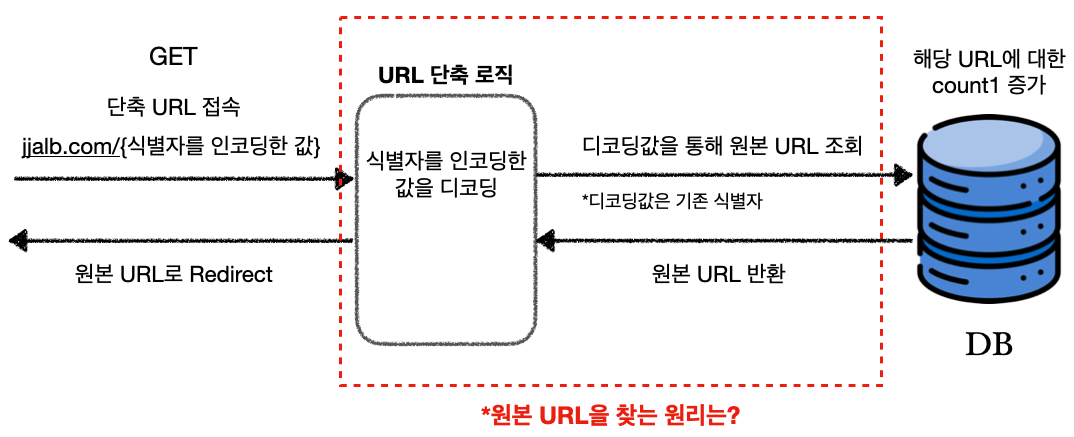
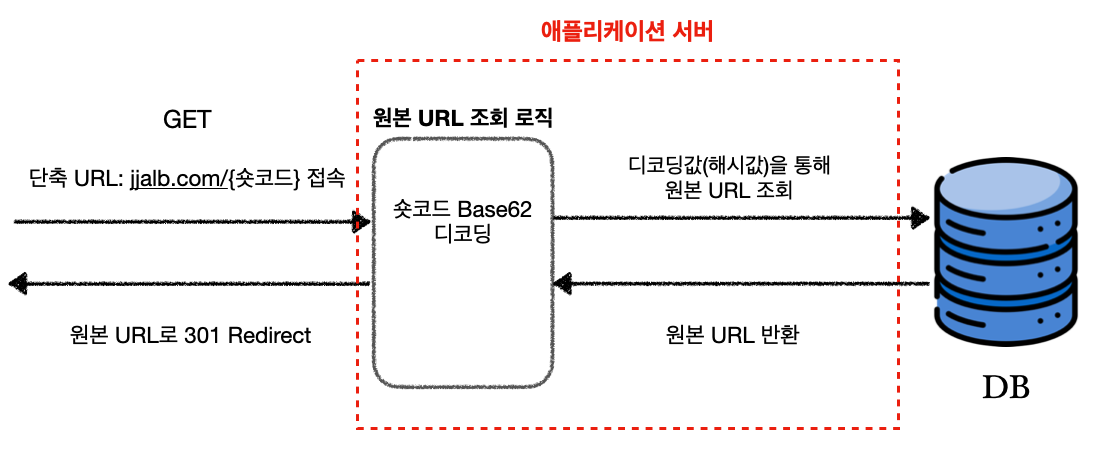
Update post

diff --git a/_posts/2024-06-19-url-shortener-project-1.md b/_posts/2024-06-19-url-shortener-project-1.md
@@ -1,6 +1,6 @@
 ---
 title: URL 단축 서비스 구상 (Url Shortener - 1)
-description: Bitly와 같은 URL 단축 서비스의 원리 파악 및 구상하기.
+description: Bitly와 같은 URL 단축 서비스의 원리 파악 및 구현하기.
 author: seungki1011
 date: 2024-06-19 10:30:00 +0900
 categories: [Project, Url-Shortener]
@@ -10,11 +10,15 @@ math: true
 mermaid: true
 ---
 
-# URL 단축 소개
+---
+
+## URL 단축 소개
 
 간단한 URL 단축 서비스를 구현해보고자 한다. 먼저 URL 단축이 무엇인지에 대해 알아보자.
 
 URL 단축이라는 것은 말 그대로 기존 URL을 단축해서 더 짧은 URL로 만드는 것을 말한다. 이런 URL 단축을 제공하는 가장 대표적인 서비스는 [**Bitly**](https://bitly.com/pages/products/url-shortener)이다. Bitly를 사용해서 단축 URL을 얻어보자.
+
+<br>
 
 ![bitly](../post_images/2024-06-19-url-shortener-project-1/bitly.png){: width="972" height="589" }
 _Bitly를 사용해서 URL 단축_
@@ -23,101 +27,144 @@ _Bitly를 사용해서 URL 단축_
 
 * 단축된 URL : [https://bit.ly/3VzBS9q](https://bit.ly/3VzBS9q)
 
-위에서 볼 수 있듯이 아주 긴 URL을 아주 짧은 링크를 통해서 접근할 수 있다. Bitly는 회원 가입해서 사용하는 경우, URL 단축 기능 외에도 해당 링크를 몇 명이 눌렀는지에 대한 통계 데이터를 확인할 수 있는 기능도 제공한다. 추후 프로젝트를 구현할 때 기본적으로 이 2 가지 기능을 구현할 예정이다.
+<br>
+
+위에서 볼 수 있듯이 아주 긴 URL을 아주 짧은 링크를 통해서 접근할 수 있다. 
+
+Bitly는 회원 가입해서 사용하는 경우, URL 단축 기능 외에도 해당 링크를 몇 명이 눌렀는지에 대한 통계 데이터를 확인할 수 있는 기능도 제공한다. 일단은 회원 가입 기능을 배제하고, 비회원이 사용하는 경우 원본 URL의 중복을 허용하지 않는 방식의 서비스를 고려하자.
 
 ---
 
-# URL 단축의 실행 로직
+## URL 단축 방법 1 (Hashing - Base62 Encoding)
 
-위에서 살펴본 URL 단축 서비스의 실행 로직의 흐름을 다음 2 가지 경우에 대해 살펴보자.
+### URL 단축, 조회 로직의 흐름
+
+URL 단축은 여러가지 방법으로 구현할 수 있다. 가장 먼저 해싱과 Base62 인코딩을 사용하는 방법에 대해 알아보자.
+
+URL 단축 실행 로직의 흐름을 다음 2 가지 경우에 대해 살펴보자.
 
 * 사용자가 원본 URL을 입력해서 단축 URL을 얻는 경우
 * 사용자가 단축 URL을 클릭해서 접속하는 경우
 
 <br>
 
-원본 URL을 입력해서 단축 URL을 얻는 경우를 살펴보자. 다음 그림에서 표현하는 흐름은 대략적인 과정만 표현한다.
+원본 URL을 입력해서 단축 URL을 얻는 경우를 살펴보자. 구현할 애플리케이션의 도메인명을 `jjalb.com`이라고 가정하자. (참고로 그림에서는 대략적인 과정만 표현한다.)
 
-구현할 애플리케이션의 도메인명을 `jjalb.com`이라고 가정하자.
-
-![firstreq](../post_images/2024-06-19-url-shortener-project-1/logic.png){: width="972" height="589" }_원본 URL 입력후 단축 URL을 얻는 과정_
+![firstreq](../post_images/2024-06-19-url-shortener-project-1/logic0.png){: width="972" height="589" }_원본 URL 입력후 단축 URL을 얻는 과정_
 
 - `shorturl`이라는 엔드포인트에서 원본 URL을 입력해서 `POST` 요청을 보낸다
-- 원본 URL에 특정 로직을 적용해서 유니크한 식별자로 만든다
-- 해당 원본 URL과 식별자를 데이터베이스에 저장한다
-- 해당 식별자에 인코딩 로직을 적용해서 나온 값을 단축 URL 뒤의 [슬러그(slug)](https://developer.mozilla.org/ko/docs/Glossary/Slug)로 활용한다
+- 원본 URL에 해시 함수를 사용해서 해시값을 얻는다
+- 해시값에 Base62 인코딩을 적용했을 때 7자리가 나오도록 해시값 앞 10자리를 잘라서 사용한다
+- 해당 원본 URL과 해시값(앞10자리)을 데이터베이스에 저장한다
+- 해시값을 Base62 인코딩한 결과를 단축 URL 뒤의 [숏코드(short code, slug)](https://developer.mozilla.org/ko/docs/Glossary/Slug)로 활용한다
 
 <br>
 
 <!-- markdownlint-capture -->
 <!-- markdownlint-disable -->
-> 위의 경우에서 이미 데이터베이스에 존재하는 원본 URL을 입력하는 경우에 대한 로직은 나타내지 않았다.
+
+> 위의 경우, 데이터베이스에 이미 존재하는 원본 URL을 입력하는 경우에 대한 로직은 다루지 않았다.(중복 체크)
 {: .prompt-tip }
 <!-- markdownlint-restore -->
 
 <br>
 
-이번에는 사용자 단축 URL을 클릭하거나 브라우저에 입력하여 접속하는 경우를 살펴보자.
+이번에는 사용자 단축 URL에 접속하는 경우를 살펴보자.
 
 ![clickreq](../post_images/2024-06-19-url-shortener-project-1/logic2.png){: width="972" height="589" }_단축 URL 링크로 접속후 원본 URL로 리다이렉트 하는 과정_
 
-* 단축 URL을 클릭하면, 단축 URL로 GET 요청을 보낸다
-* 이때 해당 단축 URL의 slug(현재의 경우 식별자를 인코딩한 값)를 디코딩해서 나온 식별자를 통해서 데이터베이스를 조회한다
+* 단축 URL을 클릭하면, 단축 URL로 `GET` 요청을 보낸다
+* 이때 해당 단축 URL의 숏코드를 Base62 디코딩해서 나온 해시값을 통해 데이터베이스를 조회한다
 * 일치하는 값을 찾아서 해당 원본 URL을 반환한다
-* 원본 URL로 리다이렉트한다
+* 원본 URL로 `301 Redirect`한다
 
 <br>
 
-URL 단축 서비스의 로직의 흐름을 대략적으로 파악했다. 그러면 위에서 계속 언급되는 식별자니, 인코딩이니 하는 것들에 대해서 알아보자.
+이제 대략적인 과정을 이해했을 것이다. 이제 이런 의문점을 가질 것이다.
+
+> **"해시 함수, Base62 인코딩을 왜 사용하지? 숏코드는 왜 7자리를 사용하지?"**.
 
 <br>
 
+URL 단축의 내부 원리에 대해 자세히 살펴보자. 
+
+<br>
 
 <!-- markdownlint-capture -->
 <!-- markdownlint-disable -->
-> 추가로
->
-> * 회원 상태에서 사용하는 경우 단축 URL에 대한 클릭수, 위치 등을 제공하는 기능에 대해서는 나중에 생각하자. 
-> * 비회원 상태에서 원본 URL은 중복을 허용하지 않고, 같은 원본 URL에 대해서는 같은 단축 URL을 제공한다.
-{: .prompt-tip }
-<!-- markdownlint-restore -->
+
+> 참고로 회원 상태에서 사용하는 경우 단축 URL에 대한 클릭수, 위치 등을 제공하는 기능에 대해서는 나중에 생각하자. 
+>{: .prompt-tip }
+> <!-- markdownlint-restore -->
 
 <br>
 
 ---
 
-# URL 단축 원리
+### 해시 함수(Hash Function)
 
-## 원본 URL 해싱
+> 기본적인 해시 알고리즘의 원리를 알고 있다는 가정하에 진행한다.
 
+<br>
 
+사실 URL 단축기를 구현하는데에 있어서 해심 알고리즘을 사용하는 것이 필수는 아니다. 그래도 해시 함수를 사용하는 경우 어떤 이점을 얻을 수 있는지 알아보자.
 
+<br>
 
+해시 함수의 특징을 살펴보자.
 
+* 해시 함수는 결정론적(deterministic)으로 작동하며, 두 해시 값이 다르다면 그 해시값에 대한 원래 데이터도 달라야한다
+  * 같은 데이터는 같은 해시값을 가진다(같은 원본 URL을 가지면 같은 해시값을 가지도록 오버라이딩한다고 가정하자)
+  * 해시 값이 같다고 데이터가 같다고 보장하지는 않는다
+  * 쉽게 말해서 서로 다른 입력에 대해 같은 해시 값이 나올 수 있고, 이를 해시 충돌(hash collision)이라고 한다
 
+<br>
 
+이런 해시 함수의 특징을 이용하면 다음과 같은 효과를 누릴 수 있다. 
 
+* 같은 원본 URL에 대해서는 같은 단축 URL을 제공한다
+* 해시 기반 숏코드는 원본 URL의 삽입 순서에 의존하지 않기 때문에 분산 시스템에 활용하기 용이하다
 
+<br>
 
-
-
-
-
-
-
-
-
-
-
-
-
-
-
-
-
+물론 위에서 언급한 효과 외에도 해시 함수를 이용해서 얻을 수 있는 다양한 이점들이 존재할 것이다.
 
 
 
+<br>
+
+> **해시 알고리즘의 종류에 대해서**
+>
+> 해시 알고리즘은 기능, 세부 구현, 용도, 등으로 종류를 구분할 수 있다. 가장 보편적으로 사용되는 Cryptographic Hash Function(암호화 해시 함수)에는 다음이 존재한다.
+>
+> * MD5(Message Digest 5)
+> * SHA(Secure Hash Algorithm)
+>   * SHA-1
+>   * SHA-256
+>   * 기타 SHA 변형(SHA2, SHA3 계열)
+>
+> <br>
+>
+> 아주 간단히 MD5와 SHA의 몇 가지 특징을 정리하면 다음과 같다.
+>
+> * MD5의 경우 SHA보다 상대적으로 빠르지만, 해시 충돌에 대한 취약점이 존재한다
+> * 보안이 크게 중요하지 않은 애플리케이션의 경우 MD5를 여전히 사용(반대로 보안이 중요하면 SHA를 사용것을 권장)
+>
+> <br>
+>
+> 해시 함수의 선택은 성능과 보안 사이의 트레이드 오프(trade-off)를 고려해서 선택할 수 있다. 보안 방침은 시대에 따라 항상 변하기 때문에, 가장 권장되는 방법은 애플리케이션 구현 시기의 베스트 프랙티스(best practice)를 찾아서 적용하는 것이다. 대부분 경우 그냥 언어나 프레임워크에서 제공하는 해시 함수를 사용하면 될 것이다.
+
+<br>
+
+---
+
+### Base62 인코딩(Encoding)
+
+해시 함수에 대해서 알아보았으니, 이번에는 Base62 인코딩에 대해 알아보자. Base62 인코딩에 대해 알기 위해서는 먼저 Base64 인코딩에 대해 알아야한다.
+
+>  인코딩(Encoding)이란?
+>
+> 
 
 
 
@@ -126,3 +173,30 @@ URL 단축 서비스의 로직의 흐름을 대략적으로 파악했다. 그러
 
 
 
+
+
+
+
+
+
+
+
+
+
+
+
+
+
+
+
+
+
+
+
+
+---
+
+## Reference
+
+1. [How to implemenet Tiny URL](https://www.youtube.com/watch?v=eCLqmPBIEYs&t=389s)
+2. [Design a Shortener like Tiny URL](https://www.youtube.com/watch?v=zgIyzEEXfiA)
